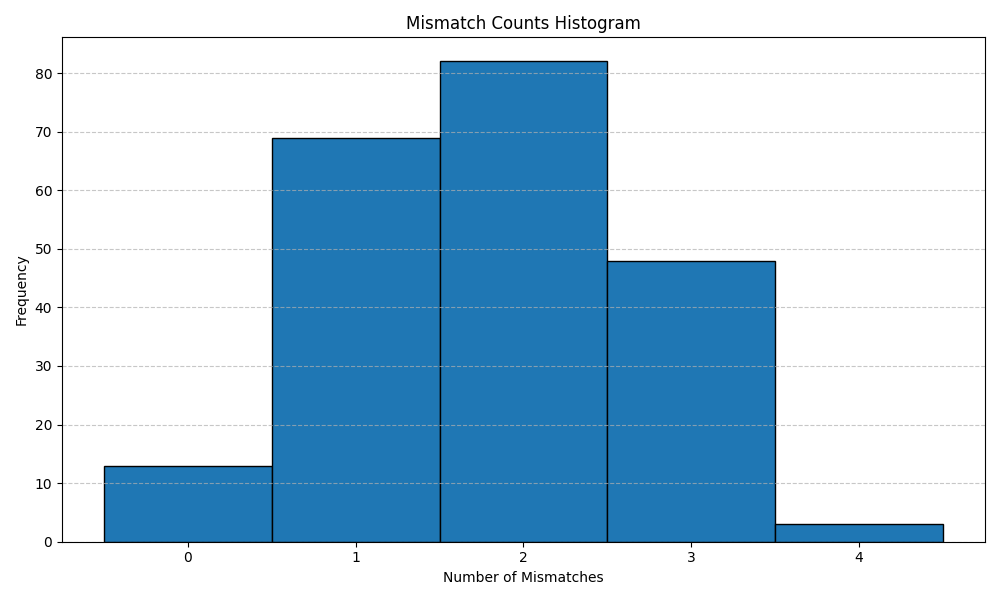
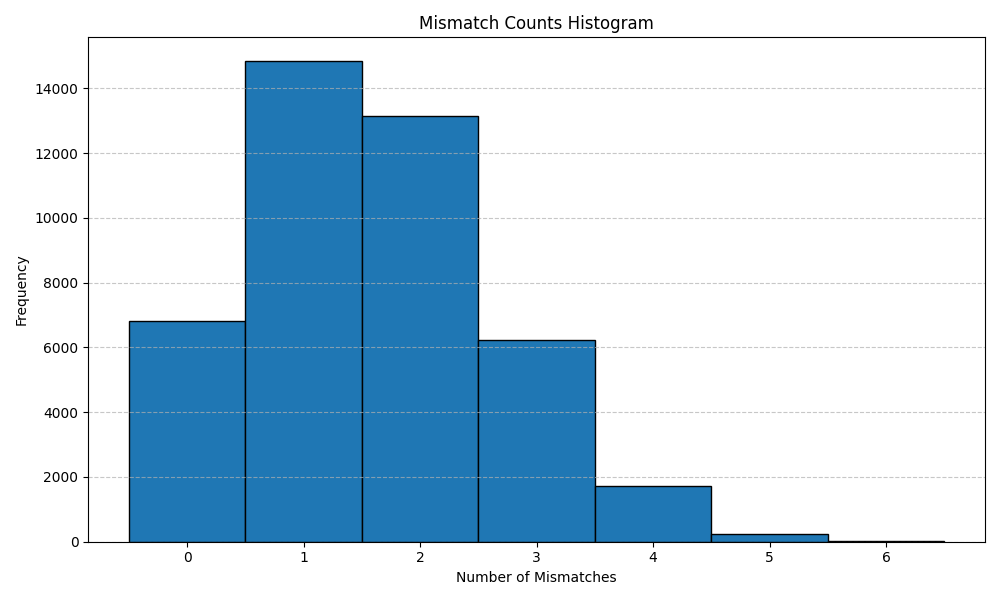
Update

diff --git a/simulations/avg_mismatch/main.py b/simulations/avg_mismatch/main.py
@@ -125,23 +125,23 @@ rymer_table = create_index_table(rymer_transform(sequence), k, w)
 # Generate circular reads and introduce mutations
 read_length = 50
 mutation_rate = 0.5
-circular_reads = generate_circular_reads(sequence, read_length, 5)
+circular_reads = generate_circular_reads(sequence, read_length, 1000)
 mutated_reads = apply_deamination_mutations(circular_reads, mutation_rate)
 
 # Extract mismatch counts for the subset of k-mers
 mismatch_counts = find_mismatched_kmers(mutated_reads, k, w, minimizer_table, rymer_table)
 
 # Output can be plotted or further analyzed
-print(mismatch_counts)
+#print(mismatch_counts)
 
 
 plt.figure(figsize=(10,6))
-plt.hist(mismatch_counts_k12, bins=range(0, max(mismatch_counts_k12) + 2), edgecolor="k", align="left")
+plt.hist(mismatch_counts, bins=range(0, max(mismatch_counts) + 2), edgecolor="k", align="left")
 plt.title(f"Mismatch Counts Histogram")
 plt.xlabel("Number of Mismatches")
 plt.ylabel("Frequency")
 plt.grid(axis="y", linestyle="--", alpha=0.7)
-plt.xticks(range(0, max(mismatch_counts_k12) + 1))
+plt.xticks(range(0, max(mismatch_counts) + 1))
 plt.tight_layout()
 plt.savefig("mismatch.png")
 plt.close()
